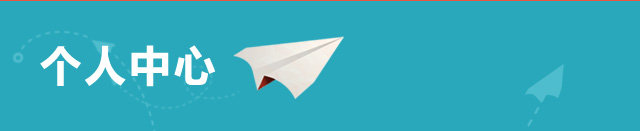
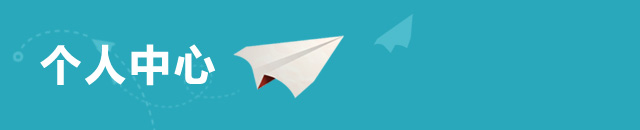
123123

diff --git a/static/mobile/css/com.css b/static/mobile/css/com.css
@@ -111,9 +111,9 @@ textarea{resize:none;overflow:auto;}
 	.grzx .grzx_admin h2{ font-size:18px; color:#848484; font-weight:400; text-align:center}
 	.grzx .grzx_info{ position:relative;}
 	.grzx .grzx_info img{ width:100%; margin:2% 0 0 0;}
-	.grzx .grzx_info ul.ulinfo{ position:absolute; left:28%; top:0; width:60%}
-	.grzx .grzx_info ul.ulinfo li{line-height:25px; color:#848484; font-size:12px; font-weight:400;  margin:1% 0 6% 0}
-	.grzx .grzx_btn{ width:80%; margin:10px auto;}
+	.grzx .grzx_info ul.ulinfo{ position:absolute; left:28%; top:3%; width:60%}
+	.grzx .grzx_info ul.ulinfo li{line-height:20px; color:#848484; font-size:12px; font-weight:400;  margin:2% 0 4% 0}
+	.grzx .grzx_btn{ width:80%; margin:5px auto 0;}
 	.grzx .grzx_btn .div_go{ float:left; width:50%;}
 	.grzx .grzx_btn a img{ border:0; width:100%; vertical-align:bottom;}
 	.grzx .grzx_btn .py{ float:left; width:50%; position:relative}
@@ -122,7 +122,7 @@ textarea{resize:none;overflow:auto;}
 	.grzx .grzx_btn .py a.weixin{ position:absolute; width:25.7%; height:100%; display:inline-block; top:0; left:74%;}
 
 	.grzx .grzx_title{ width:100%;}
-	.grzx .grzx_title img{ width:100%; vertical-align:bottom;}
+	.grzx .grzx_title img{ width:100%; vertical-align:bottom; margin:3px 0 0 0;}
 	.grzx .grzx_qt{ width:320px; margin:0 auto;}
 		.grzx .grzx_qt ul li{ float:left; width:80px; margin:10px 0 0 0;}
 		.grzx .grzx_qt ul li a{ display:inline-block; text-decoration:none; text-align:center; }

diff --git a/application/views/member_mobile.php b/application/views/member_mobile.php
@@ -115,6 +115,7 @@
             <img src="<?=$this->config->base_url()?>static/mobile/images/grzx_info.jpg"/>
             <ul class="ulinfo">
                 <li><?=$user_result['tname']?></li>
+                <li><?php if($user_result['ttype'] == 1):?>美食<?php elseif($user_result['ttype'] == 2):?>购物<?php elseif($user_result['ttype'] == 3):?>休闲<?php endif; ?>团</li>
                 <li>
                     <?php if($user_result['utype'] == 1):?>
                         团长
